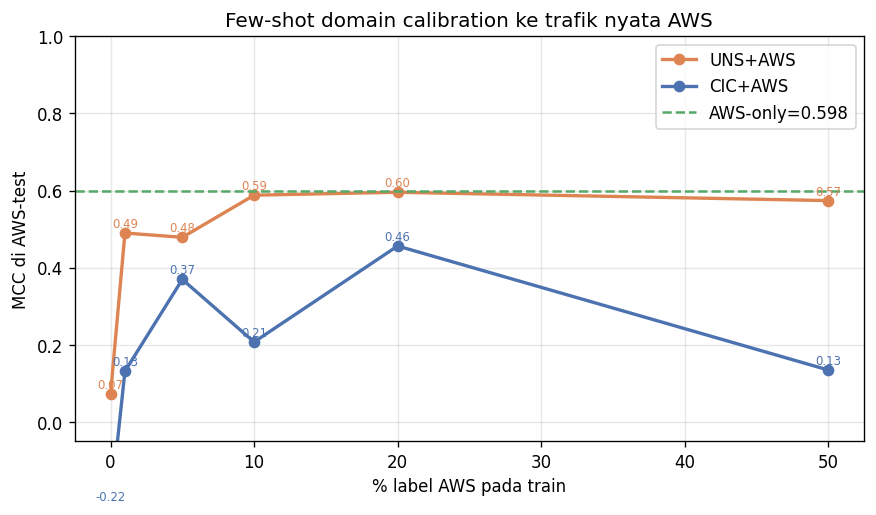
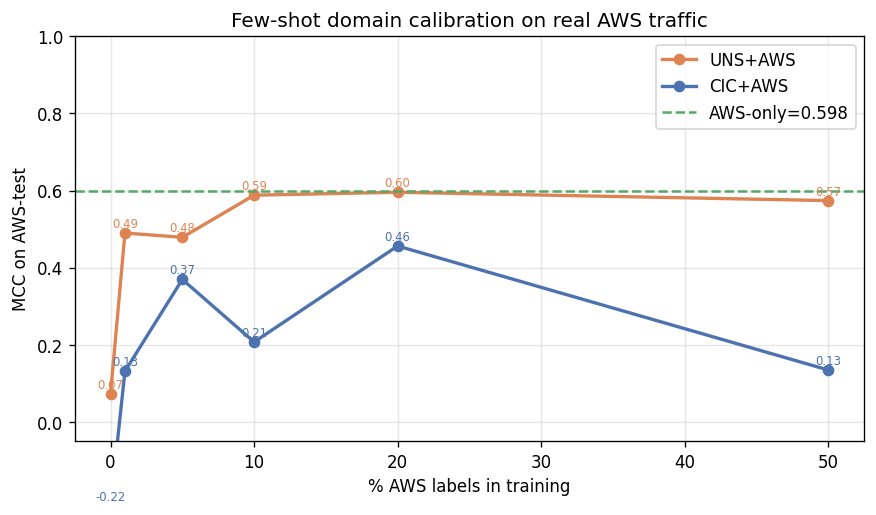
reviewer A(2)+D: tabel+gambar per-category shift matrix (angka nyata CIC+UNSW); refresh gambar label Inggris

Changed region(s): [[0.2466, 0.0, 0.8322, 0.0621], [0.0, 0.3107, 0.0308, 0.6214], [0.4007, 0.932, 0.6473, 0.9631]]

diff --git a/unswnb-15/paper1-en-ijisa.tex b/unswnb-15/paper1-en-ijisa.tex
@@ -925,9 +925,67 @@ simultaneously realign all decision boundaries. Third, the Ben-David bound
 (Eq.~\eqref{eq:bendavid}) applies per binary sub-problem; a one-vs-rest
 decomposition inherits a per-class discrepancy term $d_{\mathcal{H}\Delta\mathcal{H}}$
 and ideal error $\lambda^\ast$, and the worst-case class dominates overall
-multi-class error. A rigorous multi-class cross-network study --- including a
-per-category feature-shift matrix (e.g., DoS vs.\ brute-force) and class-aware
-few-shot budgeting --- is therefore an important direction we leave to future work.
+multi-class error, and the worst-case class dominates overall multi-class error.
+
+To make the second point concrete --- and to directly address the reviewer
+request for a per-category shift analysis --- we computed a
+\emph{per-category feature-shift matrix} across both datasets. For each dataset we
+recovered the original attack taxonomy (CIC labels are preserved in the raw CSV;
+UNSW provides \texttt{attack\_cat}), grouped labels into comparable coarse
+categories, standardized the nine SFM features per dataset, and measured the
+Wasserstein distance $W_1$ of each attack category to its own benign traffic.
+Table~\ref{tab:catshift} and Figure~\ref{fig:catshift} report the result.
+
+\begin{table}[h]
+\centering
+\caption{Per-category feature-shift matrix ($W_1$ to benign, per-dataset
+$z$-standardized nine SFM features). Higher = larger shift from benign. The
+\textsc{Mean} column averages the nine features; bold marks the single most-shifted
+feature per row. Categories with $<200$ flows omitted.}
+\label{tab:catshift}
+\small
+\setlength{\tabcolsep}{4pt}
+\begin{tabular}{llrrrrr}
+\toprule
+Data & Category & $n$ & \textsc{Mean} & Top feature & $W_1$ & 2nd feature \\
+\midrule
+CIC  & DDoS         & 126{,}389 & 0.182 & fwd\_mean  & \textbf{0.702} & dst\_load (0.42) \\
+CIC  & DoS          & 65{,}426  & 0.270 & dst\_load  & \textbf{0.806} & fwd\_mean (0.78) \\
+CIC  & BruteForce   & 38{,}174  & 0.554 & dst\_load  & \textbf{3.631} & fwd\_mean (0.59) \\
+CIC  & Botnet       & 28{,}618  & 0.158 & bwd\_mean  & \textbf{0.657} & fwd\_mean (0.53) \\
+CIC  & Infiltration & 16{,}047  & 0.101 & dst\_load  & \textbf{0.392} & fwd\_mean (0.30) \\
+\midrule
+UNSW & DoS          & 4{,}086   & 0.269 & duration   & \textbf{0.294} & bwd\_pkts (0.27) \\
+UNSW & Exploits     & 11{,}125  & 0.151 & fwd\_bytes & \textbf{0.172} & duration (0.14) \\
+UNSW & Generic      & 18{,}860  & 0.273 & bwd\_mean  & \textbf{0.674} & src\_load (0.44) \\
+UNSW & Fuzzers      & 6{,}048   & 0.225 & bwd\_mean  & \textbf{0.575} & src\_load (0.38) \\
+UNSW & Recon        & 3{,}494   & 0.220 & bwd\_mean  & \textbf{0.620} & src\_load (0.26) \\
+\bottomrule
+\end{tabular}
+\end{table}
+
+\begin{figure}[h]
+\centering
+\includegraphics[width=0.92\linewidth]{fig_category_shift_matrix.png}
+\caption{Per-category feature-shift matrix, cross-dataset ($W_1$ to benign). Each
+row is an attack category from CIC or UNSW; each column is one of the nine SFM
+features. The heat pattern is markedly non-uniform both across features within a
+category and across the two datasets for nominally comparable categories.}
+\label{fig:catshift}
+\end{figure}
+
+Two observations confirm the qualitative argument. (i) The dominant shifting
+feature is \emph{category-specific}: CIC BruteForce is overwhelmingly driven by
+the destination-load (packet-rate) feature ($W_1\!=\!3.63$, far above any other
+cell), whereas CIC DDoS is driven by the forward packet-length mean and Botnet by
+the backward mean --- so no single feature realignment can serve all categories.
+(ii) Nominally comparable categories shift \emph{differently across networks}:
+CIC DoS and UNSW DoS have almost identical mean shift ($0.270$ vs $0.269$) yet
+concentrate in different features (destination-load for CIC vs.\ flow duration and
+packet counts for UNSW), so a calibration tuned on one network's DoS need not
+transfer to another's. This empirically substantiates why class-aware few-shot
+budgeting --- rather than a single global calibration --- is required for a
+rigorous multi-class cross-network deployment, which we develop in future work.
 
 % ============================================================
 \section{Conclusion and Future Work}
